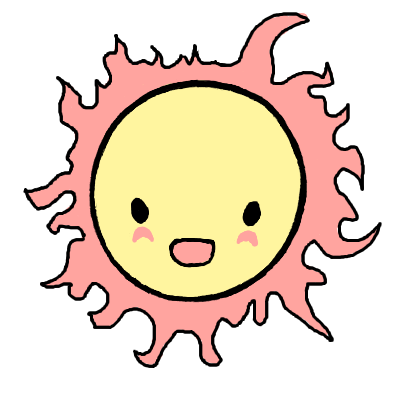
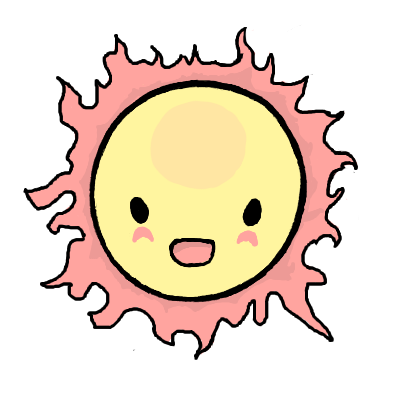
refined day calendar resources

diff --git a/pj-dash/imports/ui/NagBar.jsx b/pj-dash/imports/ui/NagBar.jsx
@@ -73,6 +73,15 @@ class CircularDayTimer extends Component {
 						height: imgHeight + 'px'
 					}
 				} className="daylight" />
+				<img src="./res/aura.png"
+				style={
+					{
+						top: top,
+						left: left,
+						width: imgWidth + 'px',
+						height: imgHeight + 'px'
+					}
+				} className="aura" />
 			</div>
 			</div>
 			);

diff --git a/pj-dash/client/main.scss b/pj-dash/client/main.scss
@@ -313,9 +313,17 @@ button {
 .daylight {
     width: 170px;
     height: 160px;
-    position: relative;
+    position: absolute;
     -webkit-animation: rocking 4.5s infinite;
    animation: rocking 50.5s infinite;
+}
+
+.aura {
+    width: 170px;
+    height: 160px;
+    position: absolute;
+    z-index: -2;
+    display: none;
 }
 
 #egg {
